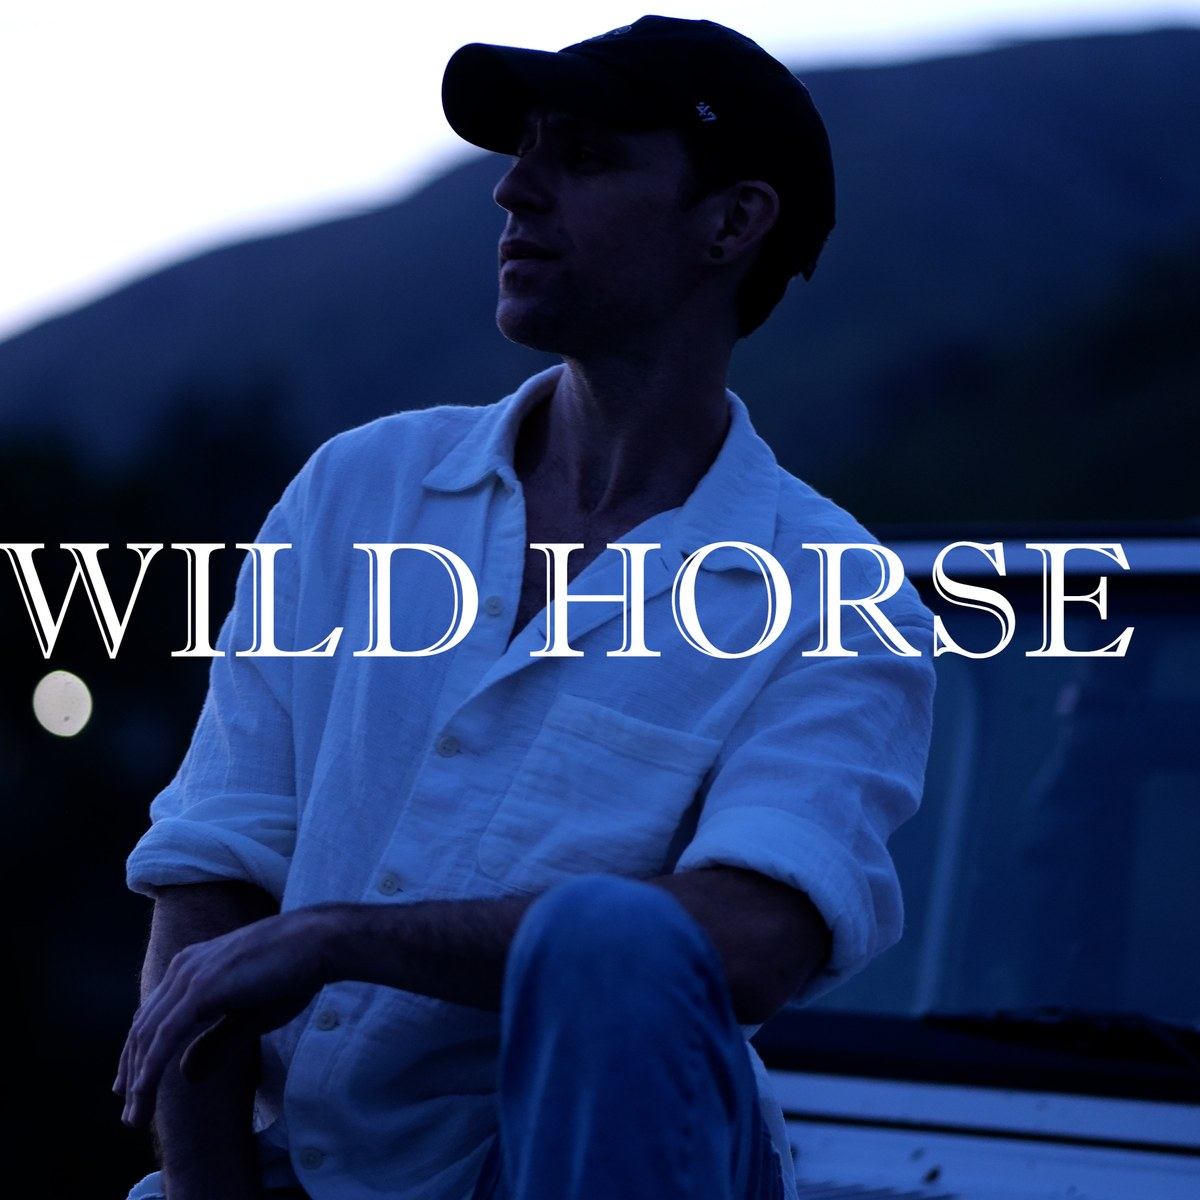
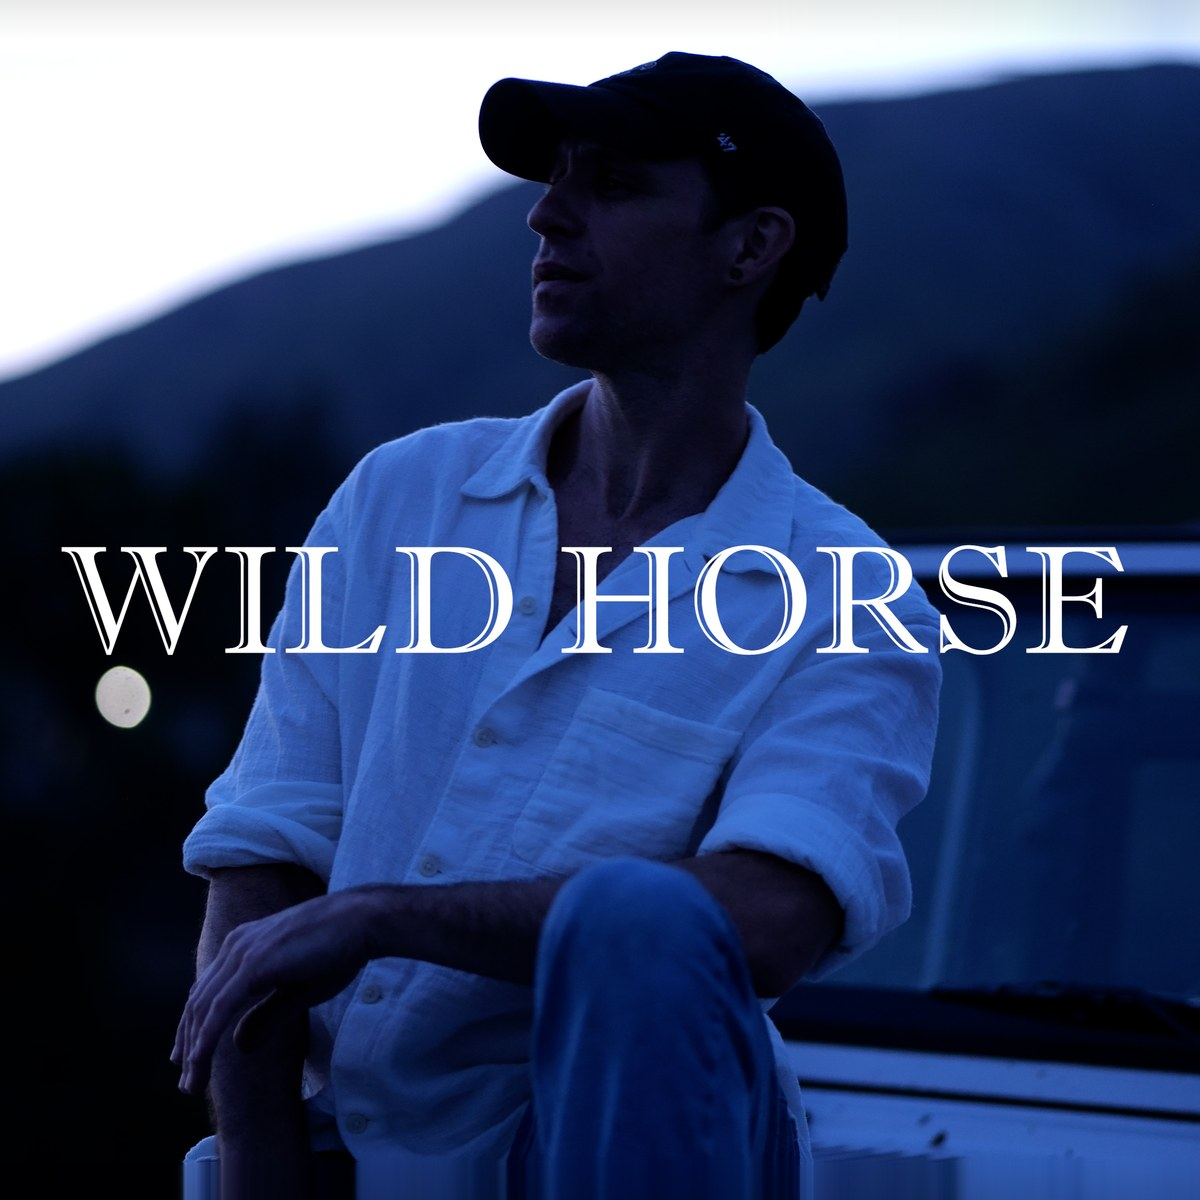
Recenter the Wild Horse title and add the childhood photo to About.
The WILD HORSE lettering is fully visible and horizontally centered, with a short sky and ground extension so the square crop can hold comfortable side margins. The childhood cowboy-hat photo is now the second slide.

Changed region(s): [[0.0, 0.0, 1.0, 1.0], [0.0617, 0.3083, 0.185, 0.4008]]

diff --git a/index.html b/index.html
@@ -2017,6 +2017,9 @@ if(/shop\.rowdyhop\.com/.test(h)){fbq('trackCustom','ClickShop',{url:h});gtag('e
                 <img src="about-barn.jpg" alt="Rowdy Hop in front of barn doors" class="about-photo" width="1200" height="1200" />
               </figure>
               <figure class="about-gallery-slide" aria-hidden="true">
+                <img src="about-childhood.jpg" alt="Young Rowdy Hop in a cowboy hat with a Rowdy Hop sign" class="about-photo" width="1200" height="1200" loading="lazy" />
+              </figure>
+              <figure class="about-gallery-slide" aria-hidden="true">
                 <img src="about-smile-bw.jpg" alt="Rowdy Hop smiling in a cap and Willie Nelson T-shirt" class="about-photo" width="1200" height="1200" loading="lazy" />
               </figure>
               <figure class="about-gallery-slide" aria-hidden="true">
@@ -2046,6 +2049,7 @@ if(/shop\.rowdyhop\.com/.test(h)){fbq('trackCustom','ClickShop',{url:h});gtag('e
             <button type="button" class="about-gallery-dot" aria-label="Show photo 4"><span></span></button>
             <button type="button" class="about-gallery-dot" aria-label="Show photo 5"><span></span></button>
             <button type="button" class="about-gallery-dot" aria-label="Show photo 6"><span></span></button>
+            <button type="button" class="about-gallery-dot" aria-label="Show photo 7"><span></span></button>
           </div>
         </div>
       </div>
